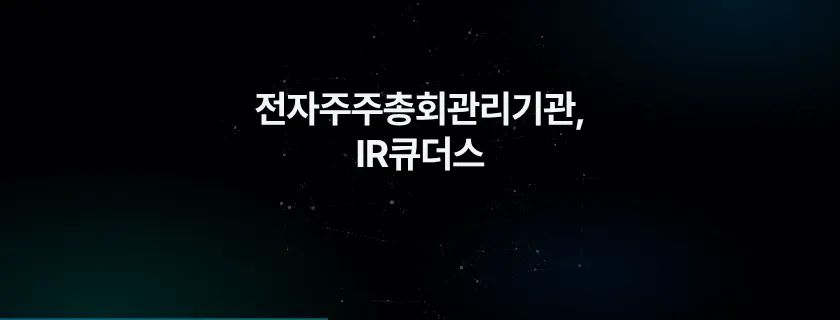
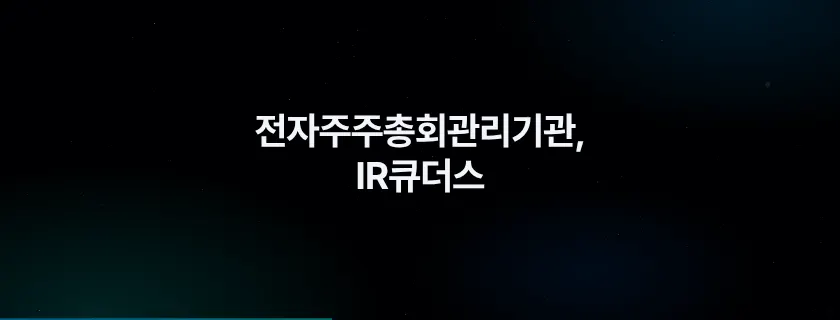
session4 K16: 간지 제목 묶음 세로 가운데를 다른 간지(제목 + 보조 줄)와 같게 — 110px 올림 되돌림
Claude-Session: https://claude.ai/code/session_01Mn7NmyW5iujmmHnaRBFKBZ

Changed region(s): [[0.3095, 0.2812, 0.7119, 0.625]]

diff --git a/sw.js b/sw.js
@@ -1,5 +1,5 @@
 /* 오프라인 캐시 — 온라인 주소(https)로 한 번 열면 모든 파일을 저장해 두고, 통신이 끊겨도 저장본으로 동작합니다. */
-const V='seminar-screen-11262012';
+const V='seminar-screen-11262013';
 const FILES=["./","assets/KakaoBigSans-Bold.woff2","assets/KakaoBigSans-Regular.woff2","assets/KakaoSmallSans-Bold.woff2","assets/KakaoSmallSans-Light.woff2","assets/KakaoSmallSans-Regular.woff2","assets/OrbitControls.js","assets/PretendardVariable.woff2","assets/attendees.js","assets/blue-bloom.html","assets/cong1.webp","assets/cong2.webp","assets/ds-bg.html","assets/four-states.html","assets/intro.mp4","assets/irk-white.svg","assets/irk-wordmark-white.svg","assets/kism-intro.mp4","assets/kism-white.svg","assets/ksmp-white.svg","assets/panel.js","assets/qa-online.js","assets/s2/img1.png","assets/s2/img2.png","assets/s2/img3.png","assets/s2/img4.png","assets/s4/aws.webp","assets/s4/callcenter.webp","assets/s4/chair-1.webp","assets/s4/chair-2.webp","assets/s4/chair-3.webp","assets/s4/conexus-word.webp","assets/s4/ctl-1.webp","assets/s4/cx-1.webp","assets/s4/cx-2.webp","assets/s4/cx-3.webp","assets/s4/cx-flow.mp4","assets/s4/cx-pop1.webp","assets/s4/cx-pop2.webp","assets/s4/cx-vote.mp4","assets/s4/cx-vote.webp","assets/s4/cxs-1.webp","assets/s4/insurance.webp","assets/s4/isms-t.webp","assets/s4/isms.webp","assets/s4/ismsp-t.webp","assets/s4/ismsp.webp","assets/s4/kosmos-white.png","assets/s4/ks-1.webp","assets/s4/ks-2.webp","assets/s4/ks-3.webp","assets/s4/ks-4.webp","assets/s4/ks-5.webp","assets/s4/ks-video.webp","assets/s4/live-1.webp","assets/s4/live-2.webp","assets/s4/live-3.webp","assets/s4/live-4.webp","assets/s4/live-5.webp","assets/s4/live-6.webp","assets/s4/live-7.webp","assets/s4/live-8.webp","assets/s4/logos.webp","assets/s4/ocr-1.webp","assets/s4/ocr-2.webp","assets/s4/ocr-3.webp","assets/s4/ocr-4.webp","assets/s4/ocr-5.webp","assets/s4/on-1.png","assets/s4/on-2.webp","assets/s4/on-3.webp","assets/s4/on-4.png","assets/s4/on-5.webp","assets/s4/onboard-1.webp","assets/s4/onboard-2.webp","assets/s4/privacy.webp","assets/s4/proxymity.svg","assets/s4/rehearsal.webp","assets/s4/streaming-korea.webp","assets/s4/tab-1.webp","assets/s4/tab-2.webp","assets/s4/team.webp","assets/sched.js","assets/screen-title-2.svg","assets/screen-title-b-text.svg","assets/screen-title-b.svg","assets/seat-banners.js","assets/seat-fascia.js","assets/seat-screen.js","assets/seatmap.js","assets/service-intro.mp4","assets/speaker-scott.webp","assets/speaker1-1.webp","assets/speaker2.webp","assets/speaker3-1.webp","assets/supabase.min.js","assets/three.min.js","assets/title-logos.svg","control.html","index-fs.html","index.html","kism.html","lobby/cuts.html","lobby/index.html","mc.html","session2.html","session4.html","sw.js","tools/s2_build.py","tools/s2_shell.html","assets/s3/p01.webp","assets/s3/p02.webp","assets/s3/p03.webp","assets/s3/p04.webp","assets/s3/p05.webp","assets/s3/p06.webp","assets/s3/p07.webp","assets/s3/p08.webp","assets/s3/p09.webp","assets/s3/p10.webp","assets/s3/p11.webp","assets/s3/p12.webp","assets/s3/p13.webp","assets/s3/p14.webp","assets/s3/p15.webp","assets/s3/p16.webp","assets/s3/p17.webp","assets/s3/p18.webp","assets/s3/p19.webp","assets/s3/p20.webp","assets/s3/p21.webp","assets/s3/p22.webp","assets/s3/p23.webp","assets/kism/photo-main.webp","assets/kism/photo-2.webp","assets/kism/photo-3.webp","assets/kism/photo-4.webp","assets/sound/countdown-tick.mp3","assets/sound/sfx-s3-part.mp3","assets/sound/sfx-s4-reveal.mp3","assets/sound/sfx-s5-proxymity.mp3","assets/sound/sfx-s6-chime.mp3","assets/sound/sfx-s7-close.mp3","assets/sound/opening-hit.mp3","assets/s4/kosmos-color.svg","assets/s4/ke-logo.png","assets/s4/ke-live.mp4","assets/kism/kwon-talk.mp4","assets/kism/manual-book.webp","kism-open.html","kism_16x9.html","led.html","assets/s4/cx-ops.mp4","assets/s4/cx-ops.webp","assets/s4/agent-app.mp4","assets/s4/agent-app.webp","assets/s4/k24b-bg.webp","session0.html","assets/kism/photo-main-cut.webp","assets/s4/cx-chair.mp4","assets/s4/cx-chair.webp","assets/s4/cx-test.mp4","assets/s4/cx-test.webp","assets/s4/onboard-mgr.webp","assets/s4/proxymity-logo.png","assets/s4/k21-bg.webp","assets/s4/kosmos-admin-white.svg","assets/kism-intro-16x9.mp4","assets/seat-guide.html","assets/s4/app-icon-agent.svg","assets/ds-main.mp4","assets/s4/k2-agency.webp","assets/s4/k2-support.webp","assets/s4/thumbs/K00.webp","assets/s4/thumbs/K01.webp","assets/s4/thumbs/K02.webp","assets/s4/thumbs/K03.webp","assets/s4/thumbs/K04.webp","assets/s4/thumbs/K05.webp","assets/s4/thumbs/K06.webp","assets/s4/thumbs/K07.webp","assets/s4/thumbs/K08.webp","assets/s4/thumbs/K09.webp","assets/s4/thumbs/K10.webp","assets/s4/thumbs/K11.webp","assets/s4/thumbs/K12.webp","assets/s4/thumbs/K13.webp","assets/s4/thumbs/K14.webp","assets/s4/thumbs/K15.webp","assets/s4/thumbs/K16.webp","assets/s4/thumbs/K17.webp","assets/s4/thumbs/K18a.webp","assets/s4/thumbs/K18b.webp","assets/s4/thumbs/K18c.webp","assets/s4/thumbs/K19.webp","assets/s4/thumbs/K19b.webp","assets/s4/thumbs/K20.webp","assets/s4/thumbs/K21.webp","assets/s4/thumbs/K21b.webp","assets/s4/thumbs/K22s.webp","assets/s4/thumbs/K23.webp","assets/s4/thumbs/K23b.webp","assets/s4/thumbs/K24a.webp","assets/s4/thumbs/K24b.webp","assets/s4/thumbs/K24c.webp","assets/s4/thumbs/K25.webp","assets/s4/thumbs/K25b.webp","assets/s4/thumbs/K26.webp","assets/s4/thumbs/K27.webp","assets/s4/thumbs/K28a.webp","assets/s4/thumbs/K28b.webp","assets/s4/thumbs/K28c.webp","assets/s4/thumbs/K28d.webp","assets/s4/thumbs/K29.webp","assets/s4/thumbs/K30.webp","assets/s4/thumbs/K09b.webp","assets/s4/thumbs/K28e.webp"];
 self.addEventListener('install',e=>{e.waitUntil(caches.open(V).then(c=>c.addAll(FILES)).then(()=>self.skipWaiting()));});
 self.addEventListener('activate',e=>{e.waitUntil(caches.keys().then(ks=>Promise.all(ks.filter(k=>k!==V).map(k=>caches.delete(k)))).then(()=>self.clients.claim()));});

diff --git a/session4.html b/session4.html
@@ -1611,7 +1611,7 @@ html,body,body *{touch-action:none;-webkit-touch-callout:none;-webkit-user-selec
 #K04>:not(.top),#K09>:not(.top){translate:0 -30px}
 #K18a>*,#K18c>*{translate:0 -30px}
 #K20>*{translate:0 -30px}
-#K16 .sec-c{translate:0 -110px}
+#K16 .sec-c{translate:0 0}
 /* 11/26 18:55 K02 · K14: 제목 두 줄을 왼쪽에, 내용은 오른쪽(1250~3900 / 1350~3900). K02 벤토 4열 × 3행 */
 #K02 .bw.a{grid-column:1/3;grid-row:1}#K02 .bw.b{grid-column:3/5;grid-row:1/3}
 #K02 .bw.c{grid-column:1/2;grid-row:2}#K02 .bw.e{grid-column:2/3;grid-row:2}
